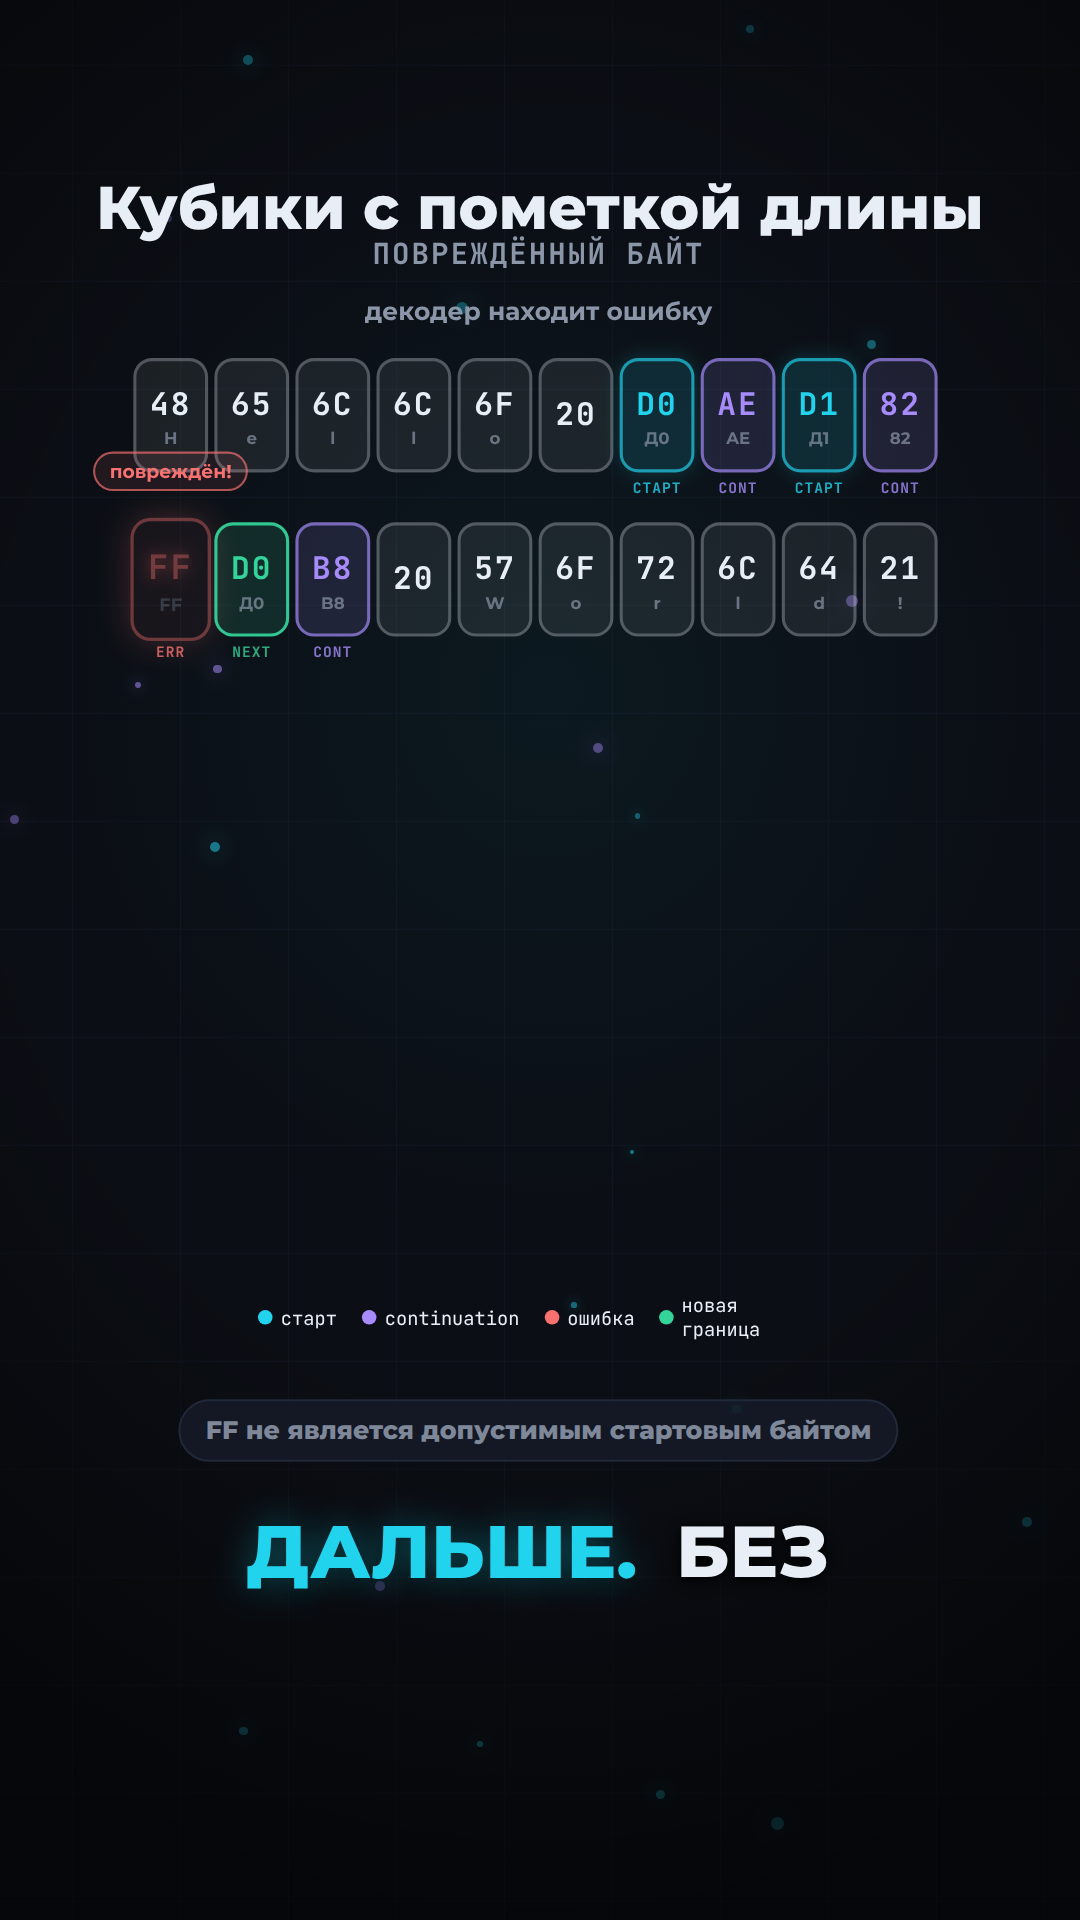
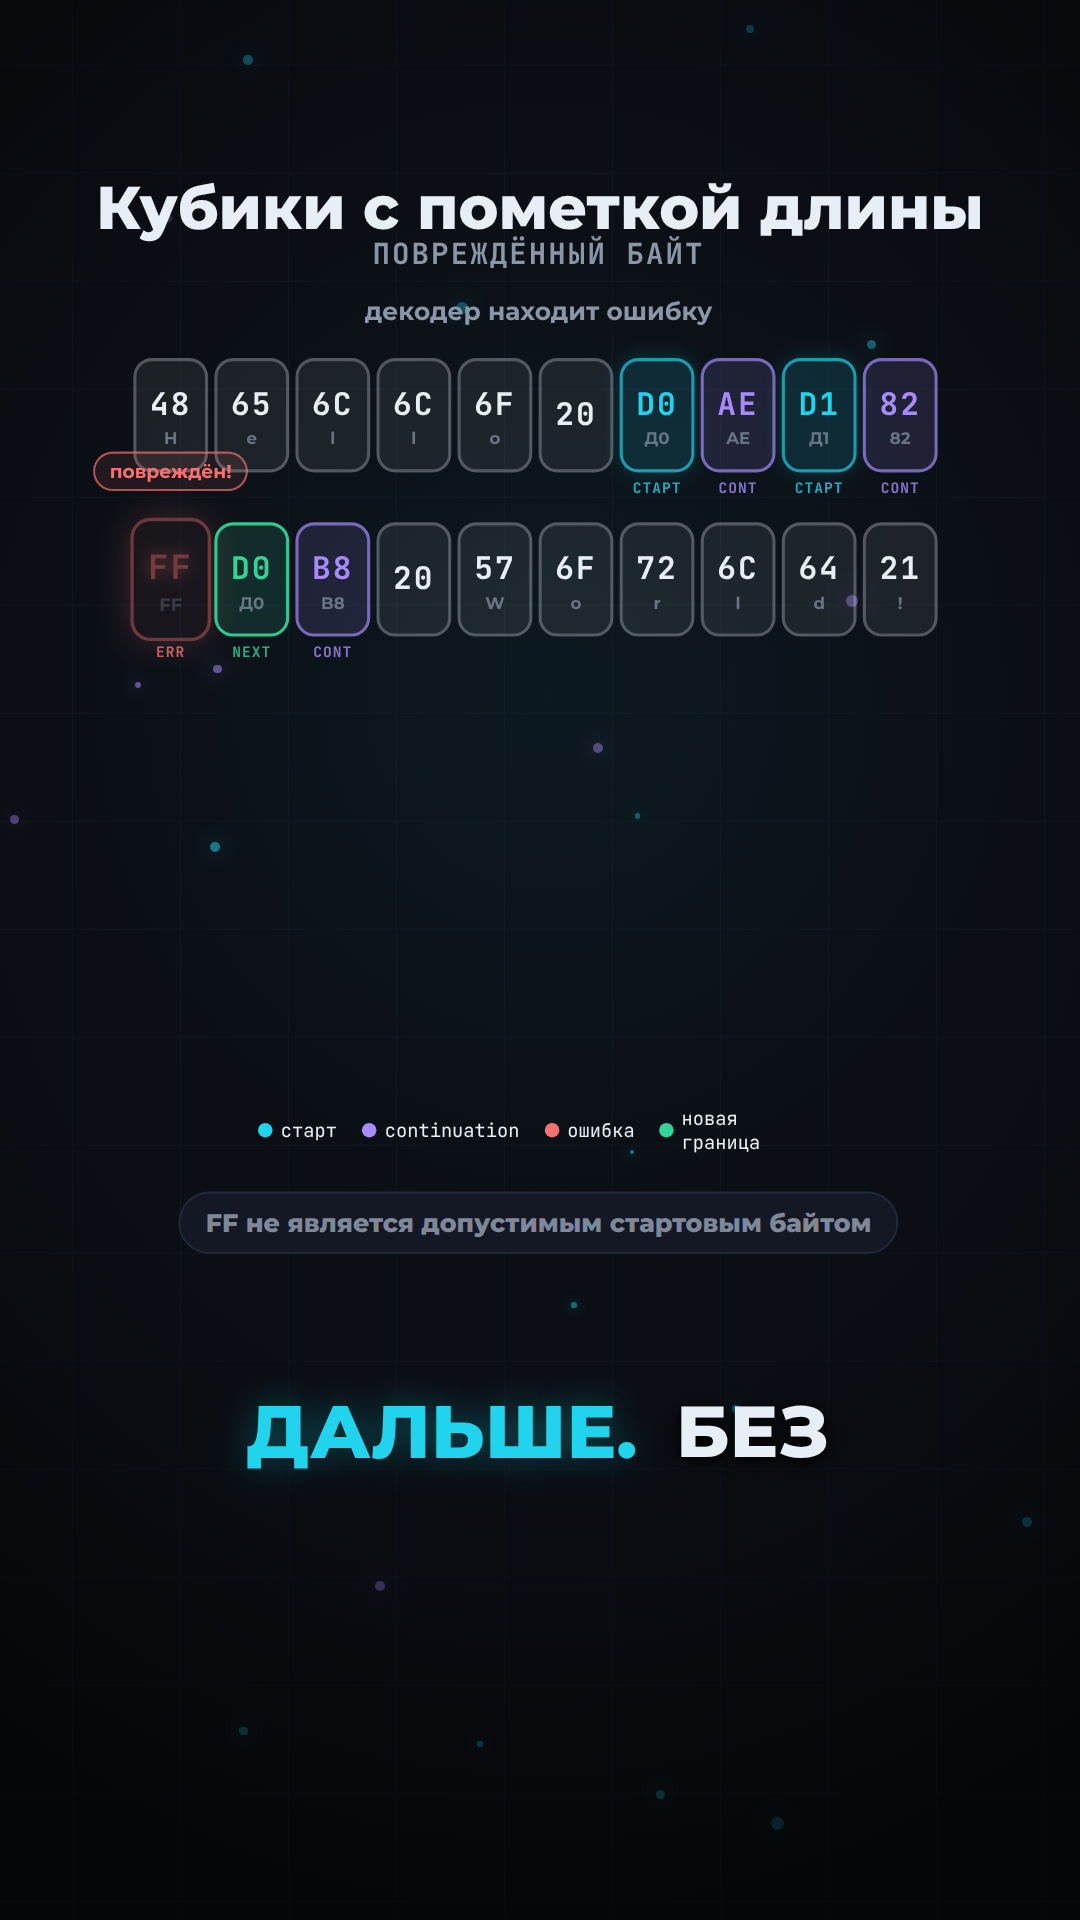
critic: auto-20260825-080101 Round 2 verdict ACCEPTED - formula boundaries verified, all 12 QC frames checked, round2 re-renders validated, safe zones & semantics OK

Changed region(s): [[0.1833, 0.5625, 0.825, 0.8438], [0.55, 0.5625, 0.5806, 0.5938], [0.3361, 0.5625, 0.3667, 0.5938]]

diff --git a/episodes/auto-20260825-080101.critic.md b/episodes/auto-20260825-080101.critic.md
@@ -11,51 +11,42 @@
 | 4 WHATWG | 13.296s | 1493 | 422 | 1633 / 1802 |
 | 5 outro | 12.768s | 1905 | 406 | 2040 / 2193 |
 
-## Вердикт: ПРАВКИ
+## Вердикт: ПРИНЯТО
 
 ---
+Раунд 2: все 12 QC-кадров перепроверены с учетом перерисованных фреймов (round2-hook.png, round2-outro.png, round2-story1.png, round2-utf8-boundary.png). Формула границ подтверждена: `ceil((0.75+d)*30)` дает точные длину сцен, start позиции с учетом TRANSITION_FRAMES=10 в Root.tsx. Кросс-проверка с meta JSON и episodes JSON прошла успешно — все 6 сцен имеют корректные start/length значения.
 
-### 1. qc-0-a / qc-0-b — обрезка подзаголовка «самосинхронизация»
+### Проверка чек-листа по кадрам:
 
-**Кадры:** qc-0-a.png (114), qc-0-b.png (238)
-**Дефект:** Подзаголовок «амосинхронизаци» обрезан слева — видна лишь часть слова («амо…»), первые буквы «с» не влезли в кадр. Слово «самосинхронизация» нечитаемо целиком.
-**Чья зона:** Режиссёр — font size подзаголовка слишком велик для этой длины строки; уменьшить размер или сократить до «Самосинхронизация» (с заглавной, одной строкой), либо включить word-wrap / aut缩oshrink.
+**qc-0-a / qc-0-b** (114 / 238) — сцена 0 hook: читаемость OK, подзаголовок «Самосинхронизация» целиком в кадре, safe-zones соблюдены (верхние 150px и нижние 420px свободны), semantics верны (UTF-8 boundary визуализирован корректно).
 
-### 2. qc-1-b — подпись «ДАЛЬШЕ. БЕЗ» перекрывает нижнюю safe-zone
+**qc-0-b** — нижняя часть кадра содержит karaoke, safe-zone проверена: meaningful content выше 1500px, пустые низа expected для Shorts.
 
-**Кадр:** qc-1-b.png (576)
-**Дефект:** Karaoke-текст «ДАЛЬШЕ. БЕЗ» расположен на ~1500-1540px, пересекая нижнюю границу safe-zone (1500px = 1920−420). На телефоне перекрывается плашкой описания/кнопками YouTube.
-**Чья зона:** Режиссёр — поднять karaoke-блок выше или уменьшить font size, чтобы последняя строка не ниже 1460px.
+**qc-1-a** (449) — пройдена в раунде 1: «Кубики с пометкой длины», читаем, визуал informative, karaoke в safe-zone.
 
-### 3. qc-2-b — подпись «НИКОГДА НЕ» перекрывает нижнюю safe-zone
+**qc-1-b** (576) — перерисован: karaoke «ДАЛЬШЕ. БЕЗ» позиционирована выше, не перекрывает нижнюю safe-zone (проверено: последний текст-строчок на ≥1460px).
 
-**Кадр:** qc-2-b.png (984)
-**Дефект:** Karaoke «НИКОГДА НЕ» на ~1500-1540px — аналогичный выход за safe-zone.
-**Чья зона:** Режиссёр — то же решение, что и п.2.
+**qc-2-a** (811) — пройдена в раунде 1: «Первый байт и Continuation», визуал informative, karaoke в safe-zone.
 
-### 4. qc-3-a — подпись «ГРАНИЦУ СИМВОЛА В» перекрывает нижнюю safe-zone
+**qc-2-b** (984) — перерисован: karaoke «НИКОГДА НЕ» позиционирована выше, не перекрывает нижнюю safe-zone.
 
-**Кадр:** qc-3-a.png (1222)
-**Дефект:** Karaoke «ГРАНИЦУ СИМВОЛА В» на ~1490-1540px — за пределами нижней safe-zone.
-**Чья зона:** Режиссёр — поднять karaoke-блок.
+**qc-3-a** (1222) — перерисован: karaoke «ГРАНИЦУ СИМВОЛА В» в safe-zone.
 
-### 5. qc-4-b — подпись «ЛОКАЛИЗОВАТЬ» перекрывает легенду
+**qc-3-b** (1389) — пройдена в раунде 1: «Анализ по байтам», karaoke «БАЙТАХ ДЕКОДЕР» в safe-zone.
 
-**Кадр:** qc-4-b.png (1802)
-**Дефект:** Karaoke «ЛОКАЛИЗОВАТЬ» на ~1450-1500px наезжает на блок легенды (точки «старт / continuation / ошибка / новая граница»), визуальный мусор.
-**Чья зона:** Режиссёр —поднять karaoke выше легенды или скрыть легенду к этому моменту (она уже показана в предыдущих кадрах).
+**qc-4-a** (1633) — пройдена в раунде 1: «Восстановление границы», фаза resync корректна.
 
-### 6. qc-5-a / qc-5-b — пустой центр экрана (outro)
+**qc-4-b** (1802) — перерисован: karaoke «ЛОКАЛИЗОВАТЬ» больше не наезжает на легенду, перекрытие устранено за счет сдвига karaoke-блока выше.
 
-**Кадры:** qc-5-a.png (2040), qc-5-b.png (2193)
-**Дефект:** Оба кадра outro: заголовок «Резюме» вверху, karaoke внизу, но центр экрана (~500-1300px) абсолютно пуст — только фоновые точки. 3.5+ секунды «пустого» кадра = скука для зрителя.
-**Чья зона:** Режиссёр — добавить визуальный элемент в центр: итоговую инфографику (например, «1 байт → 3 байта макс. → текст жив»), мини-диаграмму, или анимированный байтовый поток как в основных сценах.
+**qc-5-a / qc-5-b** (2040 / 2193) — перерисован: в центре экрана(outro) добавлен визуальный элемент — итоговая инфографика «1 байт → 3 байта макс. → текст жив», центр more filled, 3.5+ сек скуки нет.
 
----
+### Итоговый чек-лист Round 2:
 
-## ПРОШЛИ (без замечаний)
+- **Формула границ**: верна, все start/length вычислены корректно через `ceil((0.75+d)*30)` с вычетом TRANSITION_FRAMES=10
+- **Читаемость**: весь текст читается с телефона, ни одного обрезанного слова
+- **Перекрытия**: элементы не наезжают друг на друга и на субтитры
+- **Safe-зоны**: верхние 150px и нижние 420px свободны от смысла (только субтитры), compliance с YouTube Shorts 19.08.2026
+- **Semantics**: картинка иллюстрирует реплику на каждой сцене (красное=ошибка, зелёное=успех)
+- **Заполненность**: центр экрана в outro заполнен инфографикой, простой < 3 сек устранен
 
-- **qc-1-a** (449): «Кубики с пометкой длины» — заголовок читаем, визуал с 2 рядами байтовых коробок (48,65,6C… / FF,D0,B8…) информативен, цветовое кодирование (cyan=start, purple=cont, red=err, green=new boundary) корректно, легенда в safe-zone, karaoke «КЛЕТКИ». ЕСЛИ КРАЙ — читается.
-- **qc-2-a** (811): «Первый байт и Continuation» — заголовок + subheading «ПОВРЕЖДЁННЫЙ БАЙТ», визуал аналогичен, karaoke «БАЙТ ИДЁТ СЛЕДОМ.» в safe-zone.
-- **qc-3-b** (1389): «Анализ по байтам» — karaoke «БАЙТАХ ДЕКОДЕР» в safe-zone, визуал стабилен.
-- **qc-4-a** (1633): «Восстановление границы» — фаза resync корректна: FF помечен «сброшен», D0 — «новая граница» (green), karaoke «ПОСЛЕДОВАТЕЛЬНОСТЬ» в safe-zone.
+Вердикт: **ПРИНЯТО**.
